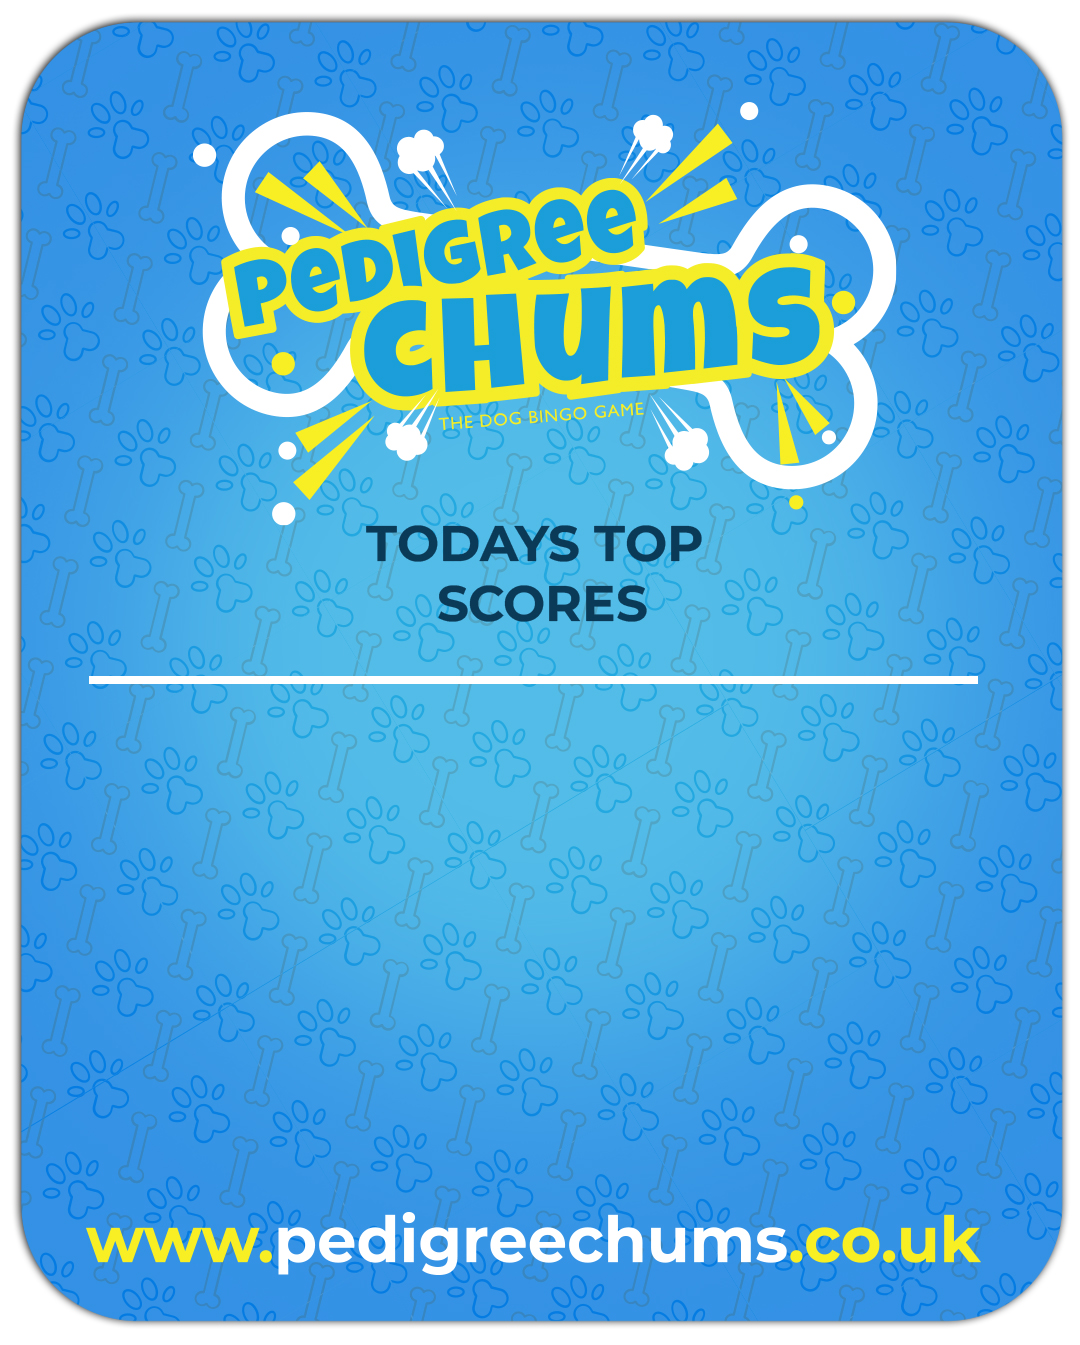
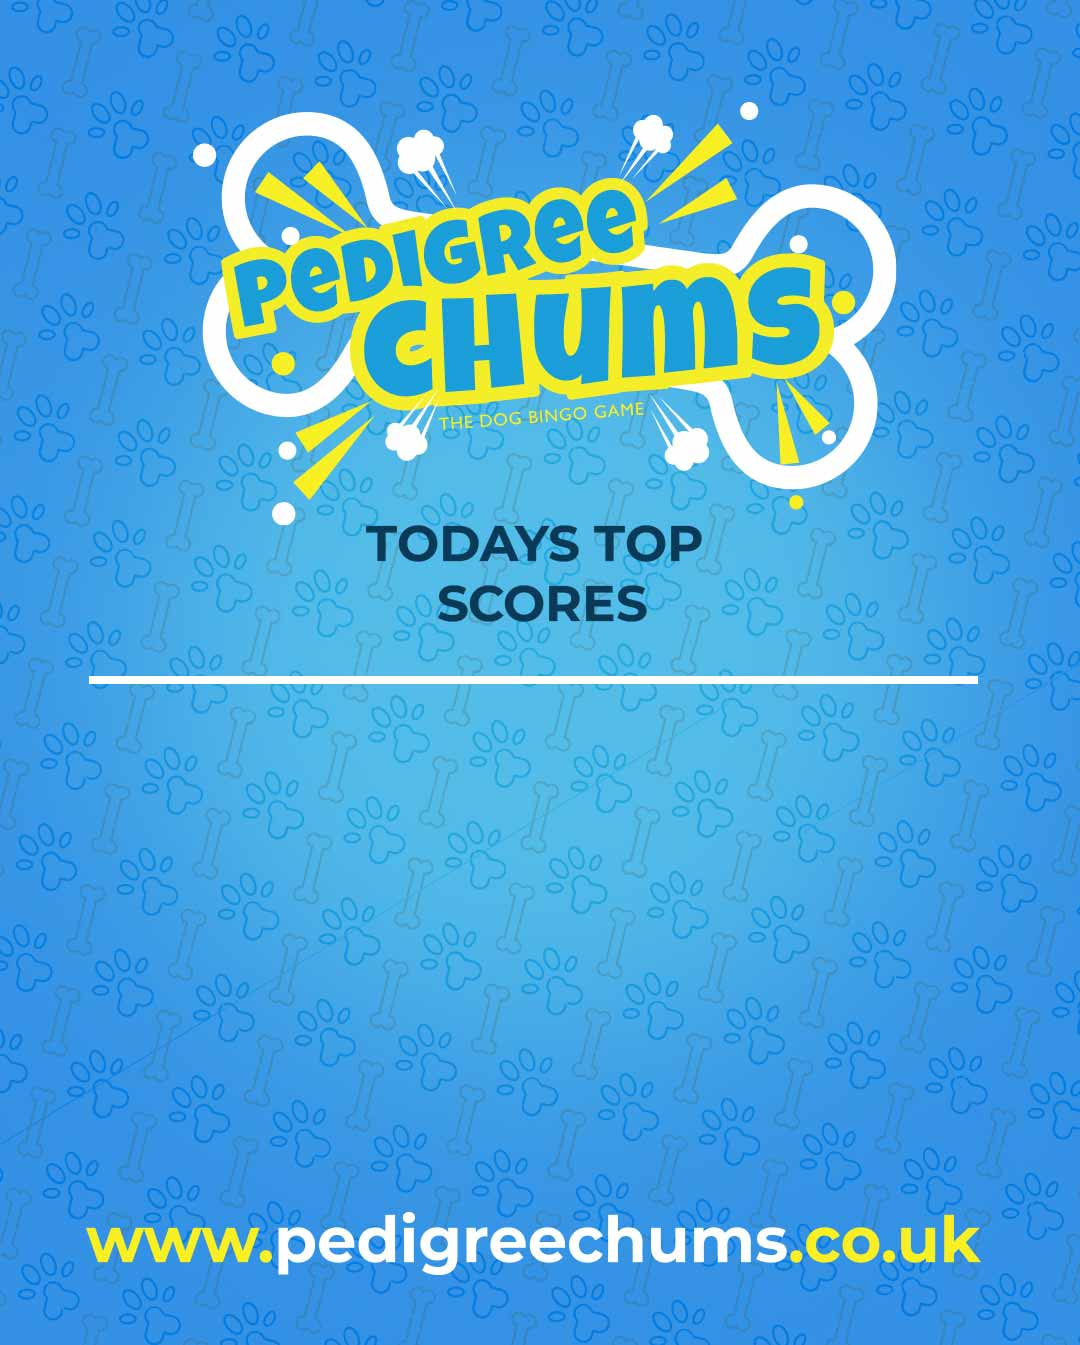
share: captions open as a popout above the button

Changed region(s): [[0.0, 0.0, 1.0, 1.0], [0.1833, 0.0937, 0.7944, 0.3747], [0.0611, 0.9056, 0.9167, 0.9368]]

diff --git a/components/ShareCard/ShareCard.module.css b/components/ShareCard/ShareCard.module.css
@@ -84,45 +84,88 @@
   box-shadow: 0 10px 40px rgba(0, 0, 0, 0.45);
 }
 
-.picker {
-  width: 100%;
-  display: flex;
-  flex-direction: column;
-  gap: 10px;
+/* THE CAPTION POPOUT, copied from the name generator's podium share so the two
+   behave the same way: a navy panel above the button with a tail pointing down
+   at it, and a backdrop that closes it on any tap outside.
+   It is anchored to the card rather than the page, because the button it belongs
+   to is drawn INTO the card at 64.46% down, so the panel sits just above that. */
+.backdrop {
+  position: fixed;
+  inset: 0;
+  z-index: 4;
 }
-.pickerTitle {
-  margin: 0 0 2px;
-  text-align: center;
-  font-family: var(--font-display, "Luckiest Guy", system-ui), sans-serif;
-  font-size: 1.5rem;
-  color: #ffffff;
-  letter-spacing: 0.02em;
+.menu {
+  position: absolute;
+  bottom: calc(35.54% + 14px);
+  left: 50%;
+  transform: translateX(-50%);
+  z-index: 5;
+  width: min(360px, 86vw);
+  background: var(--navy, #0a3a57);
+  border-radius: 16px;
+  box-shadow: 0 14px 44px rgba(10, 58, 87, 0.45);
+  padding: 12px 10px 10px;
+  text-align: left;
+  line-height: normal;
 }
-
-/* Five captions, not five platforms: the phone's own share sheet picks the app.
-   Left aligned because they are sentences, not labels. */
+.menuTitle {
+  margin: 2px 8px 10px;
+  font-family: var(--font-body, Montserrat, system-ui), sans-serif;
+  font-size: 0.68rem;
+  font-weight: 800;
+  letter-spacing: 0.09em;
+  text-transform: uppercase;
+  color: var(--yellow, #ffd23e);
+}
+/* Scrollable, because five captions on a small phone are taller than the space
+   above the button. Momentum scrolling so it feels native rather than stuck. */
+.menuScroll {
+  max-height: min(46vh, 320px);
+  overflow-y: auto;
+  -webkit-overflow-scrolling: touch;
+  overscroll-behavior: contain;
+}
 .caption {
+  display: block;
   width: 100%;
   text-align: left;
-  font-family: var(--font-body, Montserrat, system-ui), sans-serif;
-  font-size: 0.95rem;
-  font-weight: 600;
-  line-height: 1.3;
-  color: var(--navy, #0a3a57);
-  background: var(--cream, #fff8e6);
-  border: 4px solid var(--navy, #0a3a57);
-  border-radius: 14px;
-  padding: 12px 14px;
+  background: rgba(255, 255, 255, 0.07);
+  border: 1px solid rgba(255, 255, 255, 0.12);
+  border-radius: 10px;
+  padding: 10px 12px;
+  margin-bottom: 6px;
   cursor: pointer;
-}
-.caption:hover {
-  background: var(--yellow, #ffd23e);
+  font-family: var(--font-body, Montserrat, system-ui), sans-serif;
+  font-size: 0.8rem;
+  line-height: 1.4;
 }
 .caption:disabled {
   opacity: 0.6;
   cursor: default;
 }
-
+.captionText {
+  display: block;
+  color: #ffffff;
+  font-weight: 700;
+}
+.captionTags {
+  display: block;
+  margin-top: 4px;
+  color: var(--yellow, #ffd23e);
+  font-weight: 600;
+}
+/* The tail, pointing down at the button it came from. */
+.menuTail {
+  position: absolute;
+  top: 100%;
+  left: 50%;
+  transform: translateX(-50%);
+  width: 0;
+  height: 0;
+  border-left: 9px solid transparent;
+  border-right: 9px solid transparent;
+  border-top: 9px solid var(--navy, #0a3a57);
+}
 .note {
   margin: 2px 0 0;
   text-align: center;

diff --git a/components/ShareCard/ShareCard.tsx b/components/ShareCard/ShareCard.tsx
@@ -268,28 +268,47 @@ export default function ShareCard(props: ShareCardProps) {
             tracks the artwork at any display size. */}
         <div className={css.cardWrap}>
           <canvas ref={canvasRef} width={W} height={H} className={css.canvas} />
-          {!picking && (
-            <button
-              type="button"
-              className={css.shareThis}
-              onClick={() => setPicking(true)}
-              aria-label="Share this"
-              title="Share this"
-            />
+          {/* The button is drawn INTO the card, because the card is what gets
+              posted. This takes the tap, sized as a percentage of the canvas so
+              it tracks the artwork at any display size. */}
+          <button
+            type="button"
+            className={css.shareThis}
+            onClick={() => setPicking((o) => !o)}
+            aria-expanded={picking}
+            aria-label="Share this"
+            title="Share this"
+          />
+
+          {picking && (
+            <>
+              {/* A tap anywhere else closes it, the way the name generator's
+                  popout does. */}
+              <div className={css.backdrop} onClick={() => setPicking(false)} />
+              <div role="menu" className={css.menu}>
+                <p className={css.menuTitle}>Pick a caption to share</p>
+                <div className={css.menuScroll}>
+                  {captionsFor(rate).map((fn, i) => (
+                    <button
+                      key={i}
+                      type="button"
+                      role="menuitem"
+                      className={css.caption}
+                      disabled={busy}
+                      onClick={() => { setPicking(false); shareWith(fn(props)); }}
+                    >
+                      <span className={css.captionText}>{fn(props)}</span>
+                      <span className={css.captionTags}>{TAG}</span>
+                    </button>
+                  ))}
+                </div>
+                <span className={css.menuTail} aria-hidden="true" />
+              </div>
+            </>
           )}
         </div>
 
-        {picking && (
-        <div className={css.picker}>
-          <p className={css.pickerTitle}>Pick a caption</p>
-          {captionsFor(rate).map((fn, i) => (
-            <button key={i} type="button" className={css.caption} disabled={busy} onClick={() => shareWith(fn(props))}>
-              {fn(props)}
-            </button>
-          ))}
-          {note && <p className={css.note}>{note}</p>}
-        </div>
-        )}
+        {note && <p className={css.note}>{note}</p>}
       </div>
     </div>
   );
